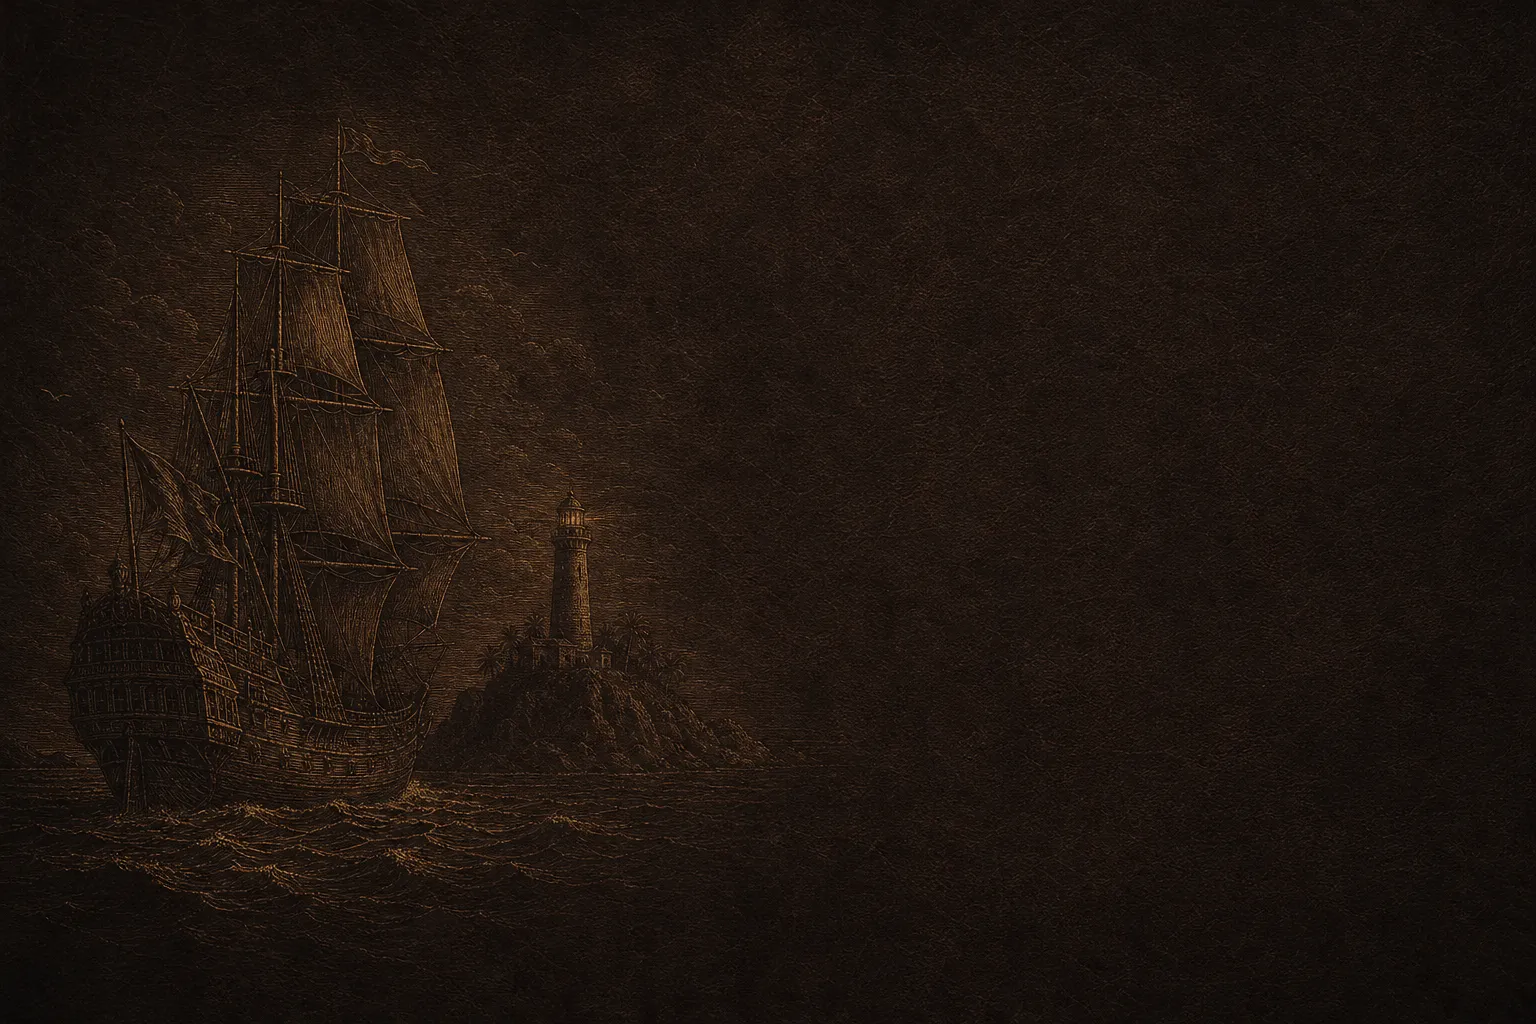
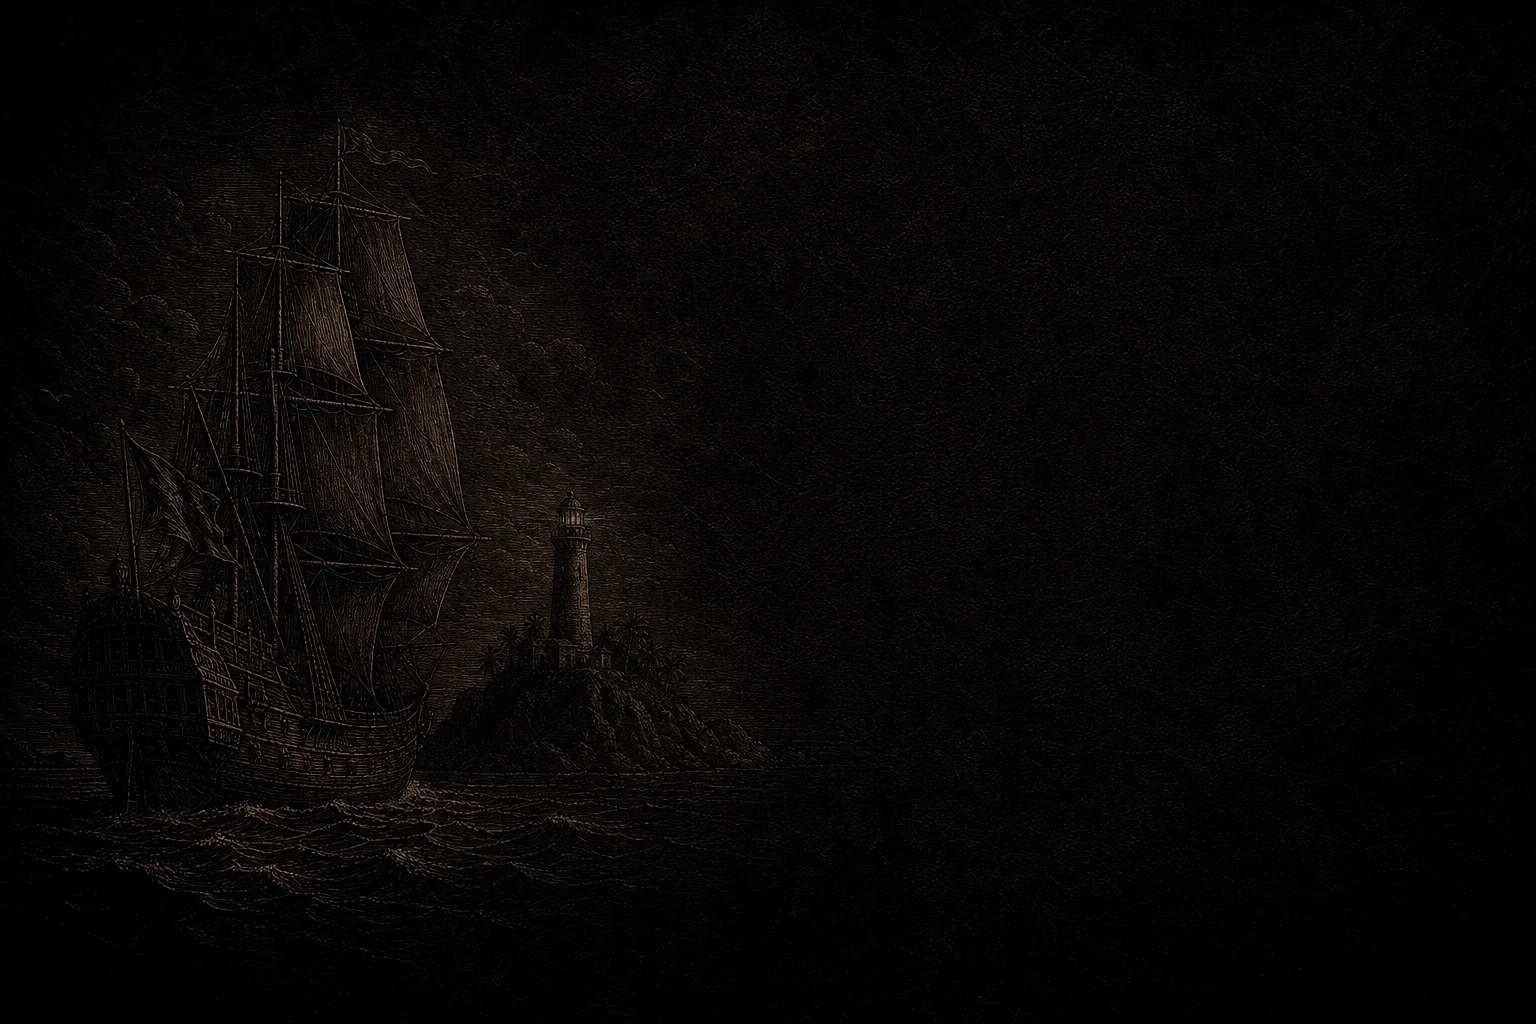
Setup backgrounds: darker muted leather, line-free harbour, desaturated art
Claude-Session: https://claude.ai/code/session_013sjMXzgNW8RNoyAHnNNuvx

diff --git a/index.html b/index.html
@@ -1595,8 +1595,9 @@ html.phone #deco .bl{height:56vh}html.phone #deco .br{height:50vh}
 /* setup / lobby: faint illustration under the leather — single: harbour painting, multi: galleon engraving, lobby: sea chart */
 .sheet-frame.sheet-single,.sheet-frame.sheet-multi,.sheet-frame.sheet-lobby{--fbgi:url(assets/fbg/C.webp)}
 .sheet-frame.sheet-multi{--fbgi:url(assets/fbg/B.webp)}.sheet-frame.sheet-lobby{--fbgi:url(assets/fbg/A.webp)}
-.sheet-frame.sheet-single::before,.sheet-frame.sheet-multi::before,.sheet-frame.sheet-lobby::before{content:'';position:absolute;inset:0;background:var(--fbgi) left center/cover no-repeat;mix-blend-mode:screen;opacity:.5;pointer-events:none;z-index:0;-webkit-mask-image:linear-gradient(90deg,transparent,#000 6%,#000 94%,transparent),linear-gradient(180deg,transparent,#000 8%,#000 92%,transparent);-webkit-mask-composite:source-in;mask-image:linear-gradient(90deg,transparent,#000 6%,#000 94%,transparent),linear-gradient(180deg,transparent,#000 8%,#000 92%,transparent);mask-composite:intersect}
+.sheet-frame.sheet-single::before,.sheet-frame.sheet-multi::before,.sheet-frame.sheet-lobby::before{content:'';position:absolute;inset:0;background:var(--fbgi) left center/cover no-repeat;mix-blend-mode:screen;opacity:.8;pointer-events:none;z-index:0;-webkit-mask-image:linear-gradient(90deg,transparent,#000 6%,#000 94%,transparent),linear-gradient(180deg,transparent,#000 8%,#000 92%,transparent);-webkit-mask-composite:source-in;mask-image:linear-gradient(90deg,transparent,#000 6%,#000 94%,transparent),linear-gradient(180deg,transparent,#000 8%,#000 92%,transparent);mask-composite:intersect}
 .sheet-frame>.fhead,.sheet-frame>.fbody{position:relative;z-index:1}
+html body .sheet.sheet-frame.sheet-single,html body .sheet.sheet-frame.sheet-multi,html body .sheet.sheet-frame.sheet-lobby{background:linear-gradient(rgba(14,12,10,.42),rgba(14,12,10,.42)),url(assets/ui/leather.jpg) 0 0/360px 360px repeat!important;background-clip:border-box!important}
 /* title ambience: sun glow + rays, gold dust, logo shine */
 .title .tsun{position:absolute;left:calc(3vw - 22vmax);top:calc(37% - 22vmax);width:44vmax;height:44vmax;border-radius:50%;pointer-events:none;mix-blend-mode:screen;background:radial-gradient(circle,rgba(255,205,130,.75) 0,rgba(255,160,80,.35) 20%,rgba(255,120,60,.12) 46%,transparent 70%);animation:tsunB 7s ease-in-out infinite alternate}
 @keyframes tsunB{from{opacity:.75;transform:scale(.96)}to{opacity:1;transform:scale(1.05)}}
